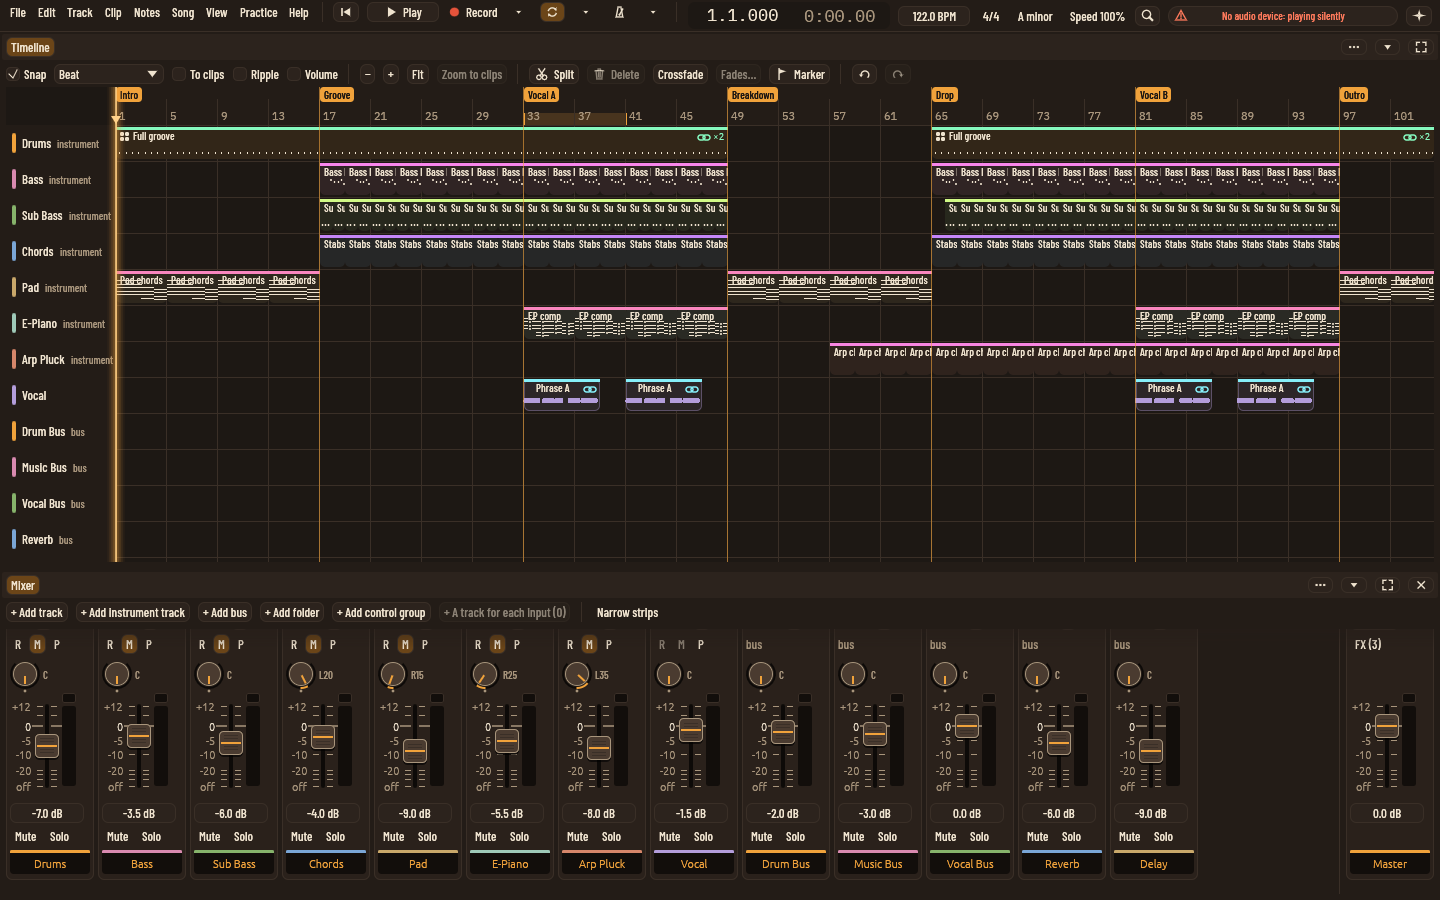
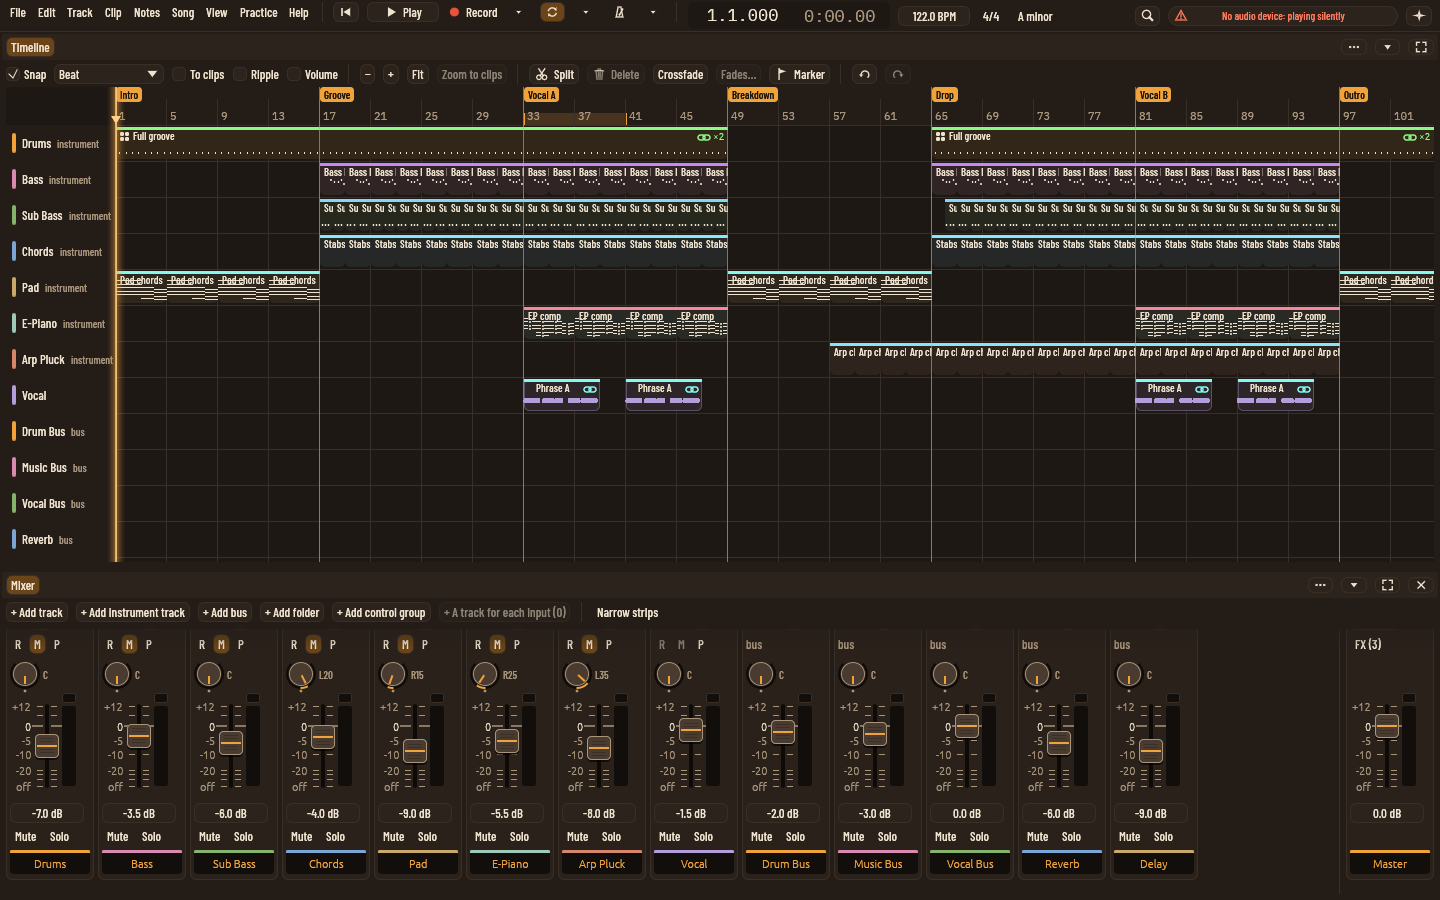
Top bar: no Speed button; Practice → Speed and pitch… opens them
Andy chose to keep the practice speed, transpose and trainer off the
top bar until the Practice panel is built. The Speed and pitch… command
opens their panel under the tempo. The renders are redone without it.

Claude-Session: https://claude.ai/code/session_015jYhFa4YH556uwwVfABHQn

diff --git a/crates/app/src/top_bar.rs b/crates/app/src/top_bar.rs
@@ -4,14 +4,16 @@
 //!
 //! From the left: the menus; the transport (back to the start, play,
 //! record, loop and the metronome, each of the last three with an arrow
-//! for its options); the position; the song's tempo, time signature and
-//! key; and the practice speed. On the right: Find a command, one status
+//! for its options); the position; and the song's tempo, time signature
+//! and key. On the right: Find a command, one status
 //! pill for the audio device and background work, and the assistants.
 //!
 //! What was always on screen before and is used once a session or never
 //! (punch bars, pre-roll and post-roll, what to keep, the click's sound
 //! and level, the loop's bars, transpose and the speed trainer) is in
-//! small option panels that open from the button they belong to. Each
+//! small option panels that open from the button they belong to. The
+//! practice speed and pitch have no button: Practice → Speed and pitch…
+//! opens them under the tempo until the Practice panel is built. Each
 //! panel can be opened by a command too, and `get_selection` says which
 //! is open (`top_bar`), so an assistant can show one to the person.
 
@@ -285,6 +287,11 @@ impl App {
         if anchor.clicked() {
             self.top.toggle(which);
         }
+        self.show_panel(anchor, which);
+    }
+
+    /// Shows `which` below `anchor` while it is open.
+    fn show_panel(&mut self, anchor: &egui::Response, which: Options) {
         if self.top.open != Some(which) {
             return;
         }
@@ -401,22 +408,12 @@ impl App {
                 .accessible_name(format!("Key, {key}"));
             self.options_panel(&r, Options::Key);
         }
-        // The practice speed and pitch: lit while either is changed, so
-        // nobody forgets they are playing slowed down.
-        let changed = (self.speed_pct, self.semitones, self.cents) != (100.0, 0, 0);
-        let mut text = format!("Speed {:.0}%", self.speed_pct);
-        if (self.semitones, self.cents) != (0, 0) {
-            text += &format!(" {:+}", self.semitones as f64 + self.cents as f64 / 100.0);
+        // Speed and pitch have no button of their own (Practice → Speed
+        // and pitch… opens them, until the Practice panel is built); they
+        // show under the tempo.
+        if self.top.open == Some(Options::Speed) {
+            self.show_panel(&t, Options::Speed);
         }
-        let r = ui
-            // ai: view
-            .add(
-                egui::Button::selectable(changed || self.top.open == Some(Options::Speed), &text)
-                    .min_size(tall),
-            )
-            .on_hover_text(self.commands.hover(Cmd::SpeedOptions))
-            .accessible_name(format!("Practice speed and pitch, {text}"));
-        self.options_panel(&r, Options::Speed);
     }
 
     /// Punch bars, pre-roll and post-roll, what is kept, and how notes
@@ -1127,7 +1124,6 @@ mod tests {
         .unwrap();
         d.h.run();
         assert!(d.h.query_by_label("Key, D Dorian").is_some());
-        assert!(d.h.query_by_label_contains("Speed 75%").is_some());
         assert!(!d.app().metronome.accent);
     }
 

diff --git a/docs/review-queue/ui-polish-2-top-bar.md b/docs/review-queue/ui-polish-2-top-bar.md
@@ -22,9 +22,6 @@ From the left:
   you chose to show it).
 - **Tempo** (drag it, or double-click to type), then **time signature**
   and **key** as buttons that open small editors.
-- **Speed**, which shows the practice speed. It lights up while the
-  speed or pitch is changed, so you can't forget you're playing slowed
-  down.
 - On the right: **Find a command** (Ctrl+K), **one status pill**, and
   **AI assistants**.
 
@@ -37,7 +34,7 @@ From the left:
 | Loop bars from and to | Loop options (arrow by Loop), or **drag the loop's ends along the foot of the ruler** |
 | Time signature, Changes… | The time signature button: beats per bar, the beat, and "Tempo and signature changes…" |
 | Key (only in the note editor before) | The key button: root, scale, or no key |
-| Speed and presets, transpose and cents, tuning presets, detect tuning, the speed trainer | The Speed button |
+| Speed and presets, transpose and cents, tuning presets, detect tuning, the speed trainer | Practice → Speed and pitch… (opens under the tempo), until the Practice panel is built |
 | Device, rate, DSP load, "No audio device", busy work, recording or disk problems | The status pill shows the most important line; click it for all of them, with Audio settings… and Performance… |
 
 ![Record options](ui-polish-2-top-bar/1920-record.png)
@@ -51,12 +48,8 @@ From the left:
 The panels use switches instead of drop-downs, as the plan's panel kit
 suggests. Clicking elsewhere or pressing Escape closes them.
 
-**Slowed down**, the Speed button lights up:
-
-![Speed 75%](ui-polish-2-top-bar/1440-slowed-bar.png)
-
 **Simpler mode**: bigger buttons, Loop and Click are labelled, and the
-time signature and key are hidden. Speed stays.
+time signature and key are hidden.
 
 ![Simpler mode, 1440](ui-polish-2-top-bar/1440-simple-bar.png)
 ![Simpler mode, 1920](ui-polish-2-top-bar/1920-simple-bar.png)
